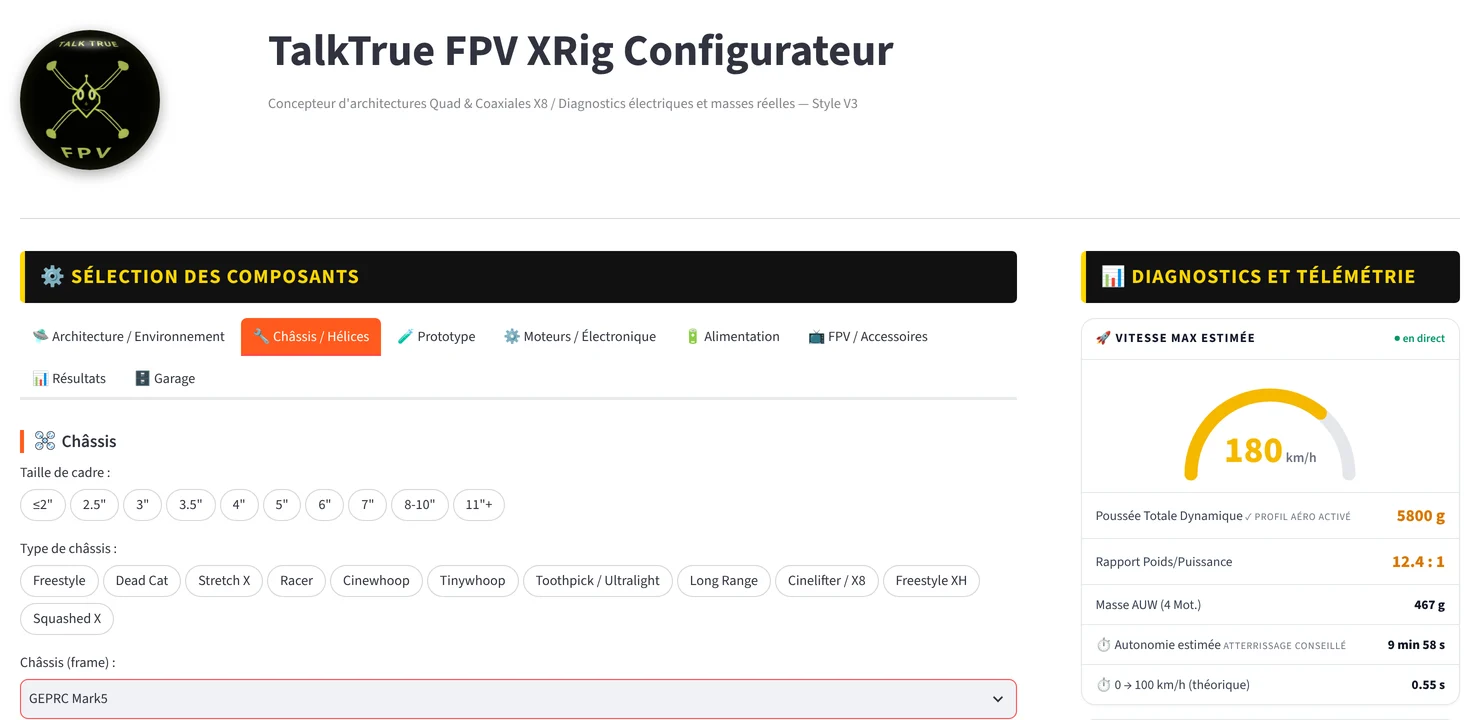
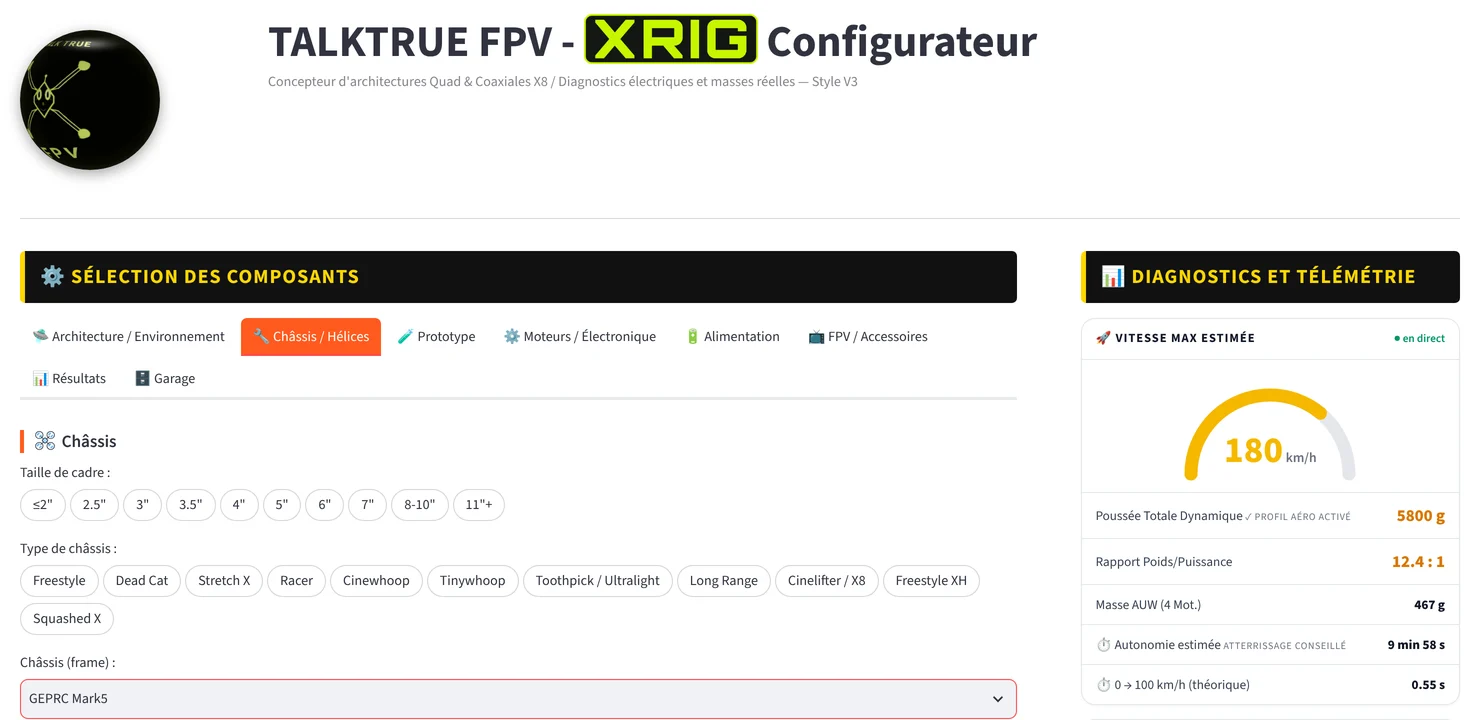
Page d'accueil : nouveau nom, badge XRIG et nouvelles images

Changed region(s): [[0.1865, 0.0, 0.7149, 0.1528], [0.0, 0.0611, 0.0932, 0.2139]]

diff --git a/index.html b/index.html
@@ -3,7 +3,7 @@
 <head>
 <meta charset="utf-8">
 <meta name="viewport" content="width=device-width, initial-scale=1">
-<title>TalkTrue FPV XRig Configurateur — Concevez votre drone FPV : vitesse, puissance, autonomie et calcul CFD</title>
+<title>TALKTRUE FPV - XRIG Configurateur — Concevez votre drone FPV : vitesse, puissance, autonomie et calcul CFD</title>
 <meta name="description" content="Concevez votre drone FPV et évaluez en 30 s sa vitesse maximale, sa poussée et son autonomie, avec plus de 1 000 composants indexés et plus de 200 châssis, validés par des données de vol GPS. Panier groupé par revendeur, garage de configurations, et en PRO la soufflerie et le calcul CFD OpenFOAM.">
 <meta name="keywords" content="calculateur FPV, configurateur drone FPV, simulateur drone FPV, vitesse drone FPV, autonomie batterie drone, poussée moteur hélice, CFD drone FPV, OpenFOAM drone, traînée drone FPV, Cx drone, ParaView, soufflerie drone, calculateur FPV, simulateur drone FPV, vitesse drone FPV, speeder FPV, eCalc alternative">
 <link rel="canonical" href="https://jschmiedd.github.io/">
@@ -15,7 +15,7 @@
 <meta property="og:type" content="website">
 <meta property="og:site_name" content="TALKTRUE FPV">
 <meta property="og:locale" content="fr_FR">
-<meta property="og:title" content="TalkTrue FPV XRig Configurateur — Concevez votre drone FPV. Évaluez-le avant de le construire.">
+<meta property="og:title" content="TALKTRUE FPV - XRIG Configurateur — Concevez votre drone FPV. Évaluez-le avant de le construire.">
 <meta property="og:description" content="Vitesse, puissance et autonomie de votre drone FPV avec plus de 1 000 composants indexés, validées par des données GPS. Et le module CFD OpenFOAM sur votre STL.">
 <meta property="og:url" content="https://jschmiedd.github.io/">
 <meta property="og:image" content="https://jschmiedd.github.io/assets/og.jpg">
@@ -34,7 +34,7 @@
   "@context": "https://schema.org",
   "@type": "WebSite",
   "name": "TALKTRUE FPV",
-  "alternateName": ["TalkTrue FPV", "TalkTrue FPV XRig Configurateur"],
+  "alternateName": ["TalkTrue FPV", "TALKTRUE FPV - XRIG Configurateur"],
   "url": "https://jschmiedd.github.io/",
   "inLanguage": "fr"
 }
@@ -43,7 +43,7 @@
 {
   "@context": "https://schema.org",
   "@type": "SoftwareApplication",
-  "name": "TalkTrue FPV XRig Configurateur",
+  "name": "TALKTRUE FPV - XRIG Configurateur",
   "applicationCategory": "EngineeringApplication",
   "operatingSystem": "Web",
   "url": "https://talktrue-simulateur-performences-v4.streamlit.app/",
@@ -64,12 +64,12 @@
      "acceptedAnswer": {"@type": "Answer", "text": "Non. Vous chargez votre STL, vous choisissez l'inclinaison et la vitesse, et le serveur de calcul TALKTRUE fait tout : réparation du STL, domaine, maillage snappyHexMesh, calcul k-ω SST jusqu'à convergence. Rien à installer."}},
     {"@type": "Question", "name": "Comment ouvrir les résultats dans ParaView ?",
      "acceptedAnswer": {"@type": "Answer", "text": "Chaque calcul fournit un zip pour ParaView (gratuit) : surface du drone, lignes de courant et une macro qui fait défiler l'air. Le pas à pas illustré est dans le Mode d'emploi de l'app."}},
-    {"@type": "Question", "name": "TalkTrue FPV XRig Configurateur est-il gratuit ?",
+    {"@type": "Question", "name": "TALKTRUE FPV - XRIG Configurateur est-il gratuit ?",
      "acceptedAnswer": {"@type": "Answer", "text": "Oui. Le calculateur complet, plus de 200 châssis, les alertes de sécurité, le panier groupé par revendeur et un garage de 3 configurations sont gratuits et sans inscription. Le PRO ajoute le garage en ligne, la soufflerie, le calcul CFD, le châssis prototype, le Quad Speeder, la 3D, l'import STL/DXF et le recalage GPS."}},
     {"@type": "Question", "name": "Les vitesses calculées sont-elles fiables ?",
      "acceptedAnswer": {"@type": "Answer", "text": "Le modèle est calé sur de vrais vols mesurés au GPS (TOWA 5 pouces, 121 et 126 km/h) et tient compte de l'inclinaison du drone, de la densité de l'air et du format réel de la batterie. En PRO, vous pouvez recaler le calcul sur votre propre mesure GPS."}},
     {"@type": "Question", "name": "Quelle différence avec eCalc ?",
-     "acceptedAnswer": {"@type": "Answer", "text": "eCalc est une référence pour le calcul pur. TalkTrue FPV XRig Configurateur est une plateforme de conception : calcul CFD de votre propre modèle, composants réels avec prix et liens d'achat, garage de configurations, esquisses cotées, maquettes 3D et import de vos plans de CAO."}}
+     "acceptedAnswer": {"@type": "Answer", "text": "eCalc est une référence pour le calcul pur. TALKTRUE FPV - XRIG Configurateur est une plateforme de conception : calcul CFD de votre propre modèle, composants réels avec prix et liens d'achat, garage de configurations, esquisses cotées, maquettes 3D et import de vos plans de CAO."}}
   ]
 }
 </script>
@@ -82,7 +82,7 @@
       <video autoplay loop muted playsinline poster="assets/logo_sphere_poster.jpg" aria-hidden="true">
         <source src="assets/logo_sphere.webm" type="video/webm"><source src="assets/logo_sphere.mp4" type="video/mp4">
       </video>
-      TALKTRUE FPV
+      <span class="marque-texte">TALKTRUE<br>FPV</span>
     </a>
     <nav class="menu" aria-label="Sections">
       <a href="#fonctions">Calculateur</a>
@@ -97,7 +97,7 @@
       <a href="#faq">FAQ</a>
     </nav>
     <a class="langue" href="en/" hreflang="en" lang="en">EN</a>
-    <a class="bouton principal" href="https://talktrue-simulateur-performences-v4.streamlit.app/">Lancer le configurateur</a>
+    <a class="bouton principal" href="https://talktrue-simulateur-performences-v4.streamlit.app/"><span class="deux-lignes">Lancer<br>XRIG Configurateur</span></a>
   </div>
 </header>
 
@@ -105,7 +105,7 @@
 <section class="heros">
   <div class="conteneur grille">
     <div>
-      <span class="sur">TalkTrue FPV XRig Configurateur</span>
+      <span class="sur">TALKTRUE FPV - XRIG Configurateur</span>
       <h1>Concevez votre drone FPV. <span class="neon">Évaluez sa vitesse, sa puissance et son autonomie</span> avant de le construire.</h1>
       <p class="accroche">Poussée, vitesse maximale, autonomie et accélération transitoire (0 → 100 km/h) calculées à partir
         de composants réels du marché et validées en situation réelle par des données GPS. Du châssis 3 pouces au
@@ -166,7 +166,7 @@
 
 <section id="piliers" class="alterne">
   <div class="conteneur">
-    <span class="sur">Pourquoi XRig Configurateur</span>
+    <span class="sur">Pourquoi XRIG Configurateur</span>
     <h2>L'assurance d'une configuration <span class="neon">performante et optimisée</span></h2>
     <div class="cartes">
       <div class="carte"><div class="icone">⏱</div><h3>Calcul instantané</h3><p>Configurez votre architecture complète en 30 secondes. Sélectionnez vos composants et visualisez immédiatement l'impact sur la vitesse de pointe, l'autonomie et l'accélération transitoire (0 → 100 km/h).</p></div>
@@ -204,7 +204,7 @@
           <li><b>Modélisation des conditions atmosphériques</b> : intégration des variables d'environnement (altitude-densité, température, hygrométrie et pression calée au niveau de la mer, QNH).</li>
         </ul>
       </div>
-      <figure class="visuel"><img src="assets/guide/01_apercu.webp" width="1480" height="720" loading="lazy" alt="Interface de TalkTrue FPV XRig Configurateur : sélection des composants et diagnostics"></figure>
+      <figure class="visuel"><img src="assets/guide/01_apercu.webp" width="1480" height="720" loading="lazy" alt="Interface de TALKTRUE FPV - XRIG Configurateur : sélection des composants et diagnostics"></figure>
     </div>
   
     <div class="cartes">
@@ -653,7 +653,7 @@
     <details><summary>Comment voir les résultats dans ParaView ?</summary><p>Chaque calcul fournit un zip pour <a href="https://www.paraview.org/download/" rel="noopener">ParaView</a> (gratuit) : surface du drone, lignes de courant et une macro qui fait défiler l'air. Le pas à pas illustré est dans le Mode d'emploi de l'app.</p></details>
     <details><summary>Le CFD est-il exact ?</summary><p>C'est un calcul stationnaire (RANS) sans les hélices ni leur souffle, avec des lois de paroi : comptez ±15 à 25 %. Il est idéal pour <b>comparer des formes</b> et voir d'où vient la traînée. La vitesse réelle se confirme par un vol GPS, sur laquelle vous pouvez recaler le configurateur.</p></details>
     <details><summary>Et la soufflerie virtuelle ?</summary><p>C'est l'estimation instantanée, avec l'écoulement et le jet des hélices illustrés. Utilisez-la pour explorer, puis le calcul CFD pour trancher.</p></details>
-    <details><summary>Quelle différence avec eCalc ?</summary><p>eCalc est une référence pour le calcul pur. TalkTrue FPV XRig Configurateur est une plateforme de conception : calcul CFD de votre propre modèle, composants réels avec prix et liens d'achat, garage de configurations, esquisses cotées, maquettes 3D et import de vos plans de CAO.</p></details>
+    <details><summary>Quelle différence avec eCalc ?</summary><p>eCalc est une référence pour le calcul pur. TALKTRUE FPV - XRIG Configurateur est une plateforme de conception : calcul CFD de votre propre modèle, composants réels avec prix et liens d'achat, garage de configurations, esquisses cotées, maquettes 3D et import de vos plans de CAO.</p></details>
     <details><summary>Qui est BOB ?</summary><p>BOB le Racer, c'est le drone de course à canopée jaune qui a inspiré le logo TALKTRUE FPV : sa silhouette est au centre de la sphère. L'effigie de la marque, et un vrai drone qui vole.</p></details>
     <details><summary>Comment obtenir un accès PRO ?</summary><p>Avec l'offre Fondateur : <b>24 € une seule fois, accès PRO à vie</b>, réservée aux 100 premiers. Payez sur <a href="https://ko-fi.com/s/b5378f58b1">Ko-fi</a> en indiquant votre e-mail dans le message, et vous recevez votre code personnel sous 24 h. Une question : <a href="mailto:talktruefpv@gmail.com">talktruefpv@gmail.com</a> ou Instagram <a href="https://www.instagram.com/talktruefpv/">@talktruefpv</a>.</p></details>
   </div>
@@ -670,7 +670,7 @@
 
 <footer>
   <div class="conteneur">
-    <span>© 2026 TALKTRUE FPV — TalkTrue FPV XRig Configurateur et calcul CFD</span>
+    <span>© 2026 TALKTRUE FPV - XRIG Configurateur et calcul CFD</span>
     <nav aria-label="Liens">
       <a href="https://talktrue-simulateur-performences-v4.streamlit.app/">Configurateur</a>
       <a href="https://www.paraview.org/download/" rel="noopener">ParaView</a>

diff --git a/en/index.html b/en/index.html
@@ -3,7 +3,7 @@
 <head>
 <meta charset="utf-8">
 <meta name="viewport" content="width=device-width, initial-scale=1">
-<title>TalkTrue FPV XRig Configurateur — Design your FPV drone: speed, power, flight time and CFD</title>
+<title>TALKTRUE FPV - XRIG Configurateur — Design your FPV drone: speed, power, flight time and CFD</title>
 <meta name="description" content="Design your FPV drone and assess its top speed, thrust and flight time in 30 s, with over 1,000 indexed components and over 200 frames, validated with GPS flight data. Cart grouped by retailer, build garage, and in PRO the wind tunnel and OpenFOAM CFD.">
 <meta name="keywords" content="FPV calculator, FPV drone configurator, FPV simulator, FPV drone speed, drone battery flight time, motor prop thrust, FPV drone CFD, OpenFOAM drone, FPV drone drag, drone drag coefficient, ParaView, drone wind tunnel, FPV calculator, FPV drone simulator, FPV drone speed, FPV speeder, eCalc alternative">
 <link rel="canonical" href="https://jschmiedd.github.io/en/">
@@ -14,7 +14,7 @@
 <meta property="og:type" content="website">
 <meta property="og:site_name" content="TALKTRUE FPV">
 <meta property="og:locale" content="en_US">
-<meta property="og:title" content="TalkTrue FPV XRig Configurateur — Design your FPV drone. Assess it before you build it.">
+<meta property="og:title" content="TALKTRUE FPV - XRIG Configurateur — Design your FPV drone. Assess it before you build it.">
 <meta property="og:description" content="Speed, power and flight time of your FPV drone with over 1,000 indexed components, validated with GPS data. Plus the OpenFOAM CFD module on your STL.">
 <meta property="og:url" content="https://jschmiedd.github.io/en/">
 <meta property="og:image" content="https://jschmiedd.github.io/assets/og_en.jpg">
@@ -33,7 +33,7 @@
   "@context": "https://schema.org",
   "@type": "WebSite",
   "name": "TALKTRUE FPV",
-  "alternateName": ["TalkTrue FPV", "TalkTrue FPV XRig Configurateur"],
+  "alternateName": ["TalkTrue FPV", "TALKTRUE FPV - XRIG Configurateur"],
   "url": "https://jschmiedd.github.io/",
   "inLanguage": "en"
 }
@@ -42,7 +42,7 @@
 {
   "@context": "https://schema.org",
   "@type": "SoftwareApplication",
-  "name": "TalkTrue FPV XRig Configurateur",
+  "name": "TALKTRUE FPV - XRIG Configurateur",
   "applicationCategory": "EngineeringApplication",
   "operatingSystem": "Web",
   "url": "https://talktrue-simulateur-performences-v4.streamlit.app/",
@@ -63,12 +63,12 @@
      "acceptedAnswer": {"@type": "Answer", "text": "No. Upload your STL, choose the tilt and speed, and the TALKTRUE compute server does the rest: STL repair, domain, snappyHexMesh meshing, k-ω SST solve until convergence. Nothing to install."}},
     {"@type": "Question", "name": "How do I open the results in ParaView?",
      "acceptedAnswer": {"@type": "Answer", "text": "Every run comes with a zip for ParaView (free): drone surface, streamlines and a macro that makes the air flow. The illustrated step-by-step is in the app's user guide."}},
-    {"@type": "Question", "name": "Is TalkTrue FPV XRig Configurateur free?",
+    {"@type": "Question", "name": "Is TALKTRUE FPV - XRIG Configurateur free?",
      "acceptedAnswer": {"@type": "Answer", "text": "Yes. The full calculator, over 200 frames, safety alerts, the cart grouped by retailer and a garage of 3 builds are free with no sign-up. PRO adds the online garage, the wind tunnel, CFD, the prototype frame, the Quad Speeder, 3D, STL/DXF import and GPS calibration."}},
     {"@type": "Question", "name": "Are the calculated speeds reliable?",
      "acceptedAnswer": {"@type": "Answer", "text": "The model is calibrated on real GPS-measured flights (TOWA 5-inch, 121 and 126 km/h) and accounts for the drone's tilt, air density and the real battery format. In PRO you can recalibrate on your own GPS measurement."}},
     {"@type": "Question", "name": "How is it different from eCalc?",
-     "acceptedAnswer": {"@type": "Answer", "text": "eCalc is a reference for pure calculation. TalkTrue FPV XRig Configurateur is a design platform: CFD of your own model, real parts with prices and shop links, a garage to compare builds, dimensioned sketches, 3D models and import of your CAD drawings."}}
+     "acceptedAnswer": {"@type": "Answer", "text": "eCalc is a reference for pure calculation. TALKTRUE FPV - XRIG Configurateur is a design platform: CFD of your own model, real parts with prices and shop links, a garage to compare builds, dimensioned sketches, 3D models and import of your CAD drawings."}}
   ]
 }
 </script>
@@ -81,7 +81,7 @@
       <video autoplay loop muted playsinline poster="../assets/logo_sphere_poster.jpg" aria-hidden="true">
         <source src="../assets/logo_sphere.webm" type="video/webm"><source src="../assets/logo_sphere.mp4" type="video/mp4">
       </video>
-      TALKTRUE FPV
+      <span class="marque-texte">TALKTRUE<br>FPV</span>
     </a>
     <nav class="menu" aria-label="Sections">
       <a href="#fonctions">Calculator</a>
@@ -96,7 +96,7 @@
       <a href="#faq">FAQ</a>
     </nav>
     <a class="langue" href="../" hreflang="fr" lang="fr">FR</a>
-    <a class="bouton principal" href="https://talktrue-simulateur-performences-v4.streamlit.app/">Launch the configurator</a>
+    <a class="bouton principal" href="https://talktrue-simulateur-performences-v4.streamlit.app/"><span class="deux-lignes">Launch<br>XRIG Configurateur</span></a>
   </div>
 </header>
 
@@ -104,7 +104,7 @@
 <section class="heros">
   <div class="conteneur grille">
     <div>
-      <span class="sur">TalkTrue FPV XRig Configurateur</span>
+      <span class="sur">TALKTRUE FPV - XRIG Configurateur</span>
       <h1>Design your FPV drone. <span class="neon">Assess its speed, power and flight time</span> before you build it.</h1>
       <p class="accroche">Thrust, top speed, flight time and transient acceleration (0 → 100 km/h) computed from
         real market components and validated in real-world conditions with GPS data. From 3-inch frames to
@@ -164,7 +164,7 @@
 
 <section id="piliers" class="alterne">
   <div class="conteneur">
-    <span class="sur">Why XRig Configurateur</span>
+    <span class="sur">Why XRIG Configurateur</span>
     <h2>The assurance of a <span class="neon">high-performance, optimised build</span></h2>
     <div class="cartes">
       <div class="carte"><div class="icone">⏱</div><h3>Instant calculation</h3><p>Configure your complete architecture in 30 seconds. Select your components and instantly see the impact on top speed, flight time and transient acceleration (0 → 100 km/h).</p></div>
@@ -202,7 +202,7 @@
           <li><b>Atmospheric modelling</b>: environment variables included (density altitude, temperature, humidity and sea-level pressure, QNH).</li>
         </ul>
       </div>
-      <figure class="visuel"><img src="../assets/guide/01_apercu.webp" width="1480" height="720" loading="lazy" alt="TalkTrue FPV XRig Configurateur interface: component selection and diagnostics"></figure>
+      <figure class="visuel"><img src="../assets/guide/01_apercu.webp" width="1480" height="720" loading="lazy" alt="TALKTRUE FPV - XRIG Configurateur interface: component selection and diagnostics"></figure>
     </div>
   
     <div class="cartes">
@@ -634,7 +634,7 @@
     <details><summary>How do I view the results in ParaView?</summary><p>Every run comes with a zip for <a href="https://www.paraview.org/download/" rel="noopener">ParaView</a> (free): drone surface, streamlines and a macro that makes the air flow. The illustrated step-by-step is in the app's user guide.</p></details>
     <details><summary>Is the CFD exact?</summary><p>It is a steady (RANS) simulation without the propellers or their slipstream, with wall functions: allow ±15 to 25 %. It's ideal to <b>compare shapes</b> and see where drag comes from. Real speed is confirmed by a GPS flight, on which you can recalibrate the configurator.</p></details>
     <details><summary>And the virtual wind tunnel?</summary><p>It's the instant estimate, with the airflow and prop slipstream illustrated. Use it to explore, then CFD to settle it.</p></details>
-    <details><summary>How is it different from eCalc?</summary><p>eCalc is a reference for pure calculation. TalkTrue FPV XRig Configurateur is a design platform: CFD of your own model, real parts with prices and shop links, a build garage, dimensioned sketches, 3D models and import of your CAD drawings.</p></details>
+    <details><summary>How is it different from eCalc?</summary><p>eCalc is a reference for pure calculation. TALKTRUE FPV - XRIG Configurateur is a design platform: CFD of your own model, real parts with prices and shop links, a build garage, dimensioned sketches, 3D models and import of your CAD drawings.</p></details>
     <details><summary>Who is BOB?</summary><p>BOB the Racer is the yellow-canopy racing drone that inspired the TALKTRUE FPV logo: his silhouette sits at the centre of the sphere. The brand's mascot, and a real drone that flies.</p></details>
     <details><summary>How do I get PRO access?</summary><p>With the Founder offer: <b>€24 once, lifetime PRO access</b>, limited to the first 100. Pay on <a href="https://ko-fi.com/s/b5378f58b1">Ko-fi</a> with your email in the message and you'll get your personal code within 24 h. Questions: <a href="mailto:talktruefpv@gmail.com">talktruefpv@gmail.com</a> or Instagram <a href="https://www.instagram.com/talktruefpv/">@talktruefpv</a>. The app interface is in French.</p></details>
   </div>
@@ -651,7 +651,7 @@
 
 <footer>
   <div class="conteneur">
-    <span>© 2026 TALKTRUE FPV — TalkTrue FPV XRig Configurateur and CFD</span>
+    <span>© 2026 TALKTRUE FPV - XRIG Configurateur and CFD</span>
     <nav aria-label="Links">
       <a href="https://talktrue-simulateur-performences-v4.streamlit.app/">Configurator</a>
       <a href="https://www.paraview.org/download/" rel="noopener">ParaView</a>

diff --git a/assets/style.css b/assets/style.css
@@ -38,6 +38,7 @@ p { margin: 0 0 1em; }
 .entete .conteneur { display: flex; align-items: center; gap: 18px; height: 68px; }
 .marque { display: flex; align-items: center; gap: 12px; color: var(--texte); font: 700 1.15rem "Rajdhani", sans-serif; letter-spacing: .06em; }
 .marque:hover { text-decoration: none; }
+.marque-texte { display: block; text-align: center; line-height: 1.1; }
 .marque video, .marque img { width: 42px; height: 42px; border-radius: 50%; object-fit: cover; box-shadow: 0 0 18px rgba(207, 232, 63, .25); }
 .menu { display: flex; gap: 22px; margin-left: auto; font-size: .95rem; }
 .menu a { color: var(--doux); }
@@ -53,6 +54,8 @@ p { margin: 0 0 1em; }
 .bouton.secondaire { border-color: var(--bord); color: var(--texte); background: rgba(255, 255, 255, .02); }
 .bouton.secondaire:hover { border-color: var(--neon-sombre); }
 .entete .bouton { padding: 9px 18px; font-size: .9rem; }
+.deux-lignes { display: block; text-align: center; line-height: 1.2; white-space: nowrap; }
+.entete .marque, .entete .bouton { flex-shrink: 0; }
 
 /* ---------- Héros ---------- */
 .heros { position: relative; padding: 88px 0 70px; overflow: hidden; }
@@ -281,7 +284,7 @@ code { font-family: ui-monospace, Consolas, monospace; font-size: .86em; backgro
 }
 .menu a { white-space: nowrap; }
 @media (max-width: 1240px) { .menu { gap: 16px; font-size: .9rem; } }
-@media (max-width: 1100px) { .menu { display: none; } }
+@media (max-width: 1100px) { .menu { display: none; } .langue { margin-left: auto; } }
 
 /* Principe de calcul en une phrase (Johann, 12 octobre 2026) */
 .principe { max-width: 900px; margin: 0 0 42px; padding: 14px 20px; background: var(--carte); border: 1px solid var(--bord); border-left: 4px solid var(--neon); border-radius: 12px; color: var(--texte); font-size: 1.08rem; }
